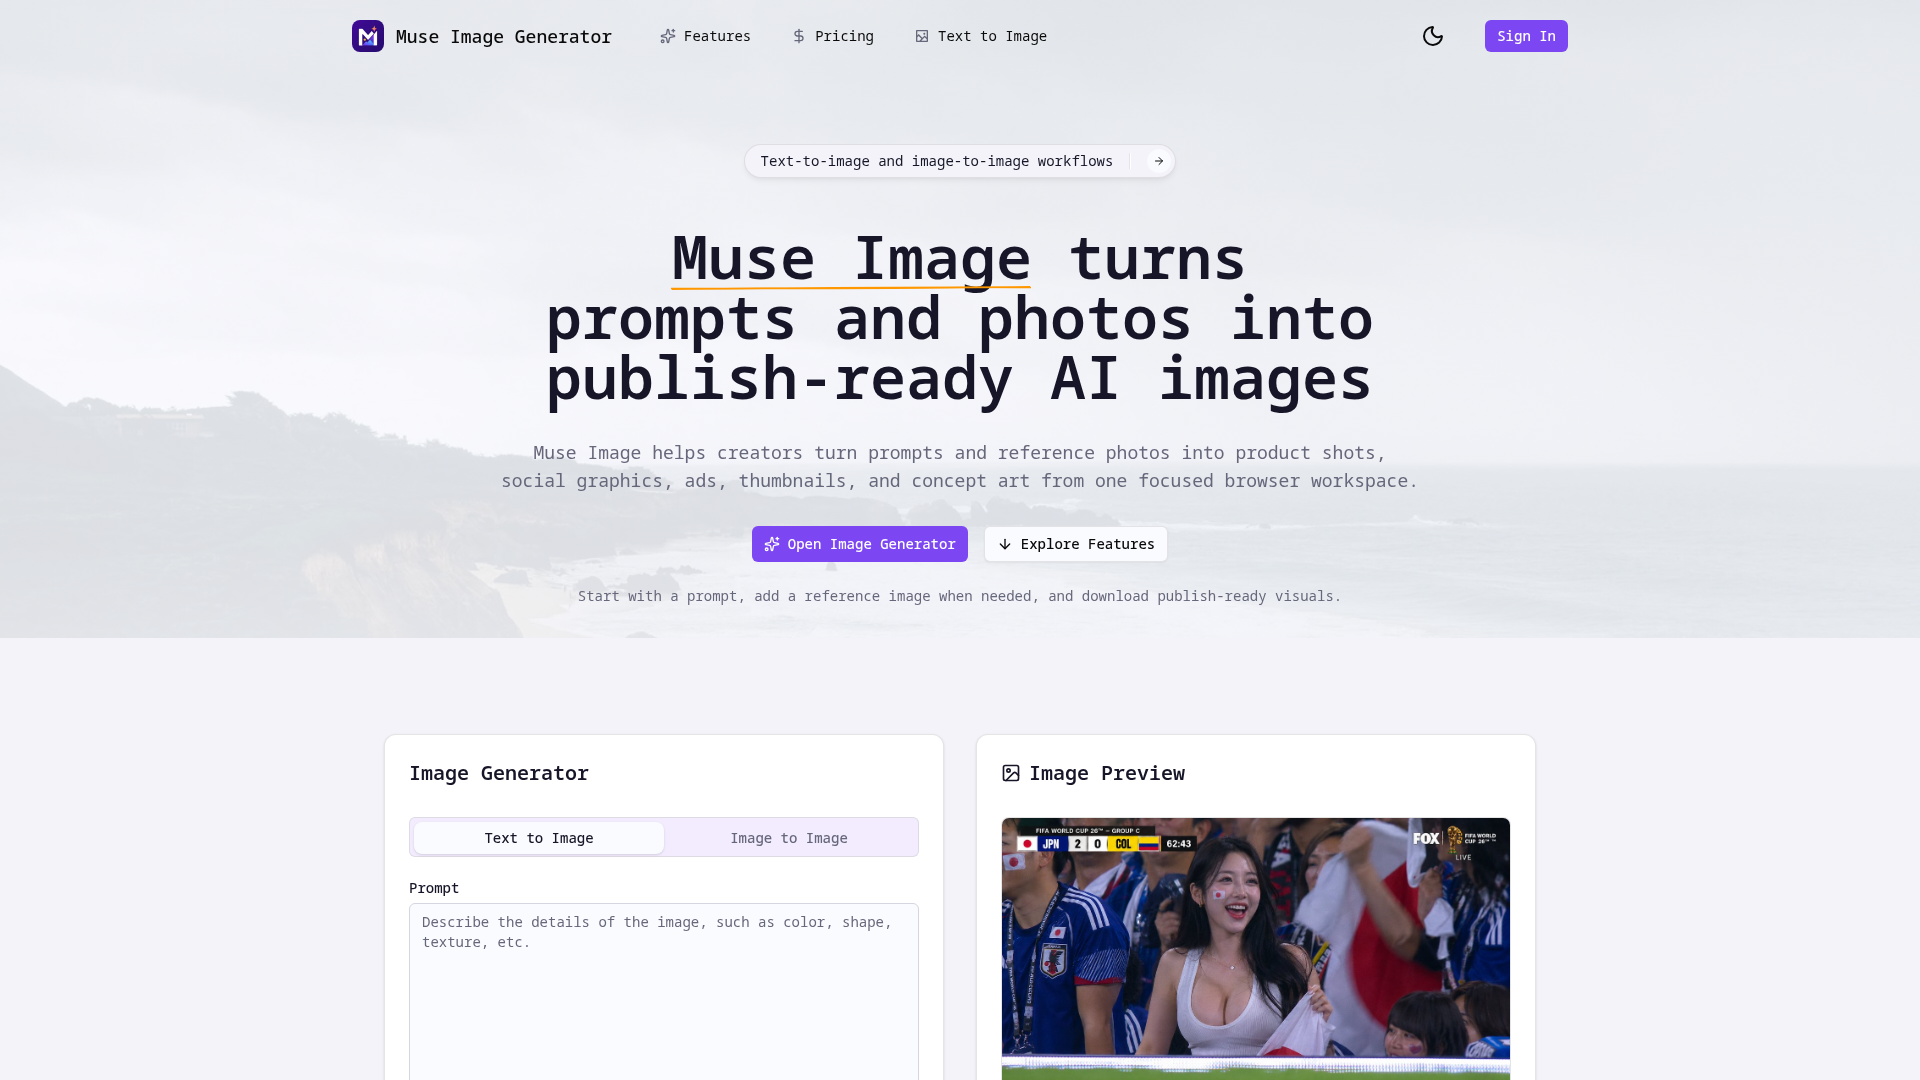
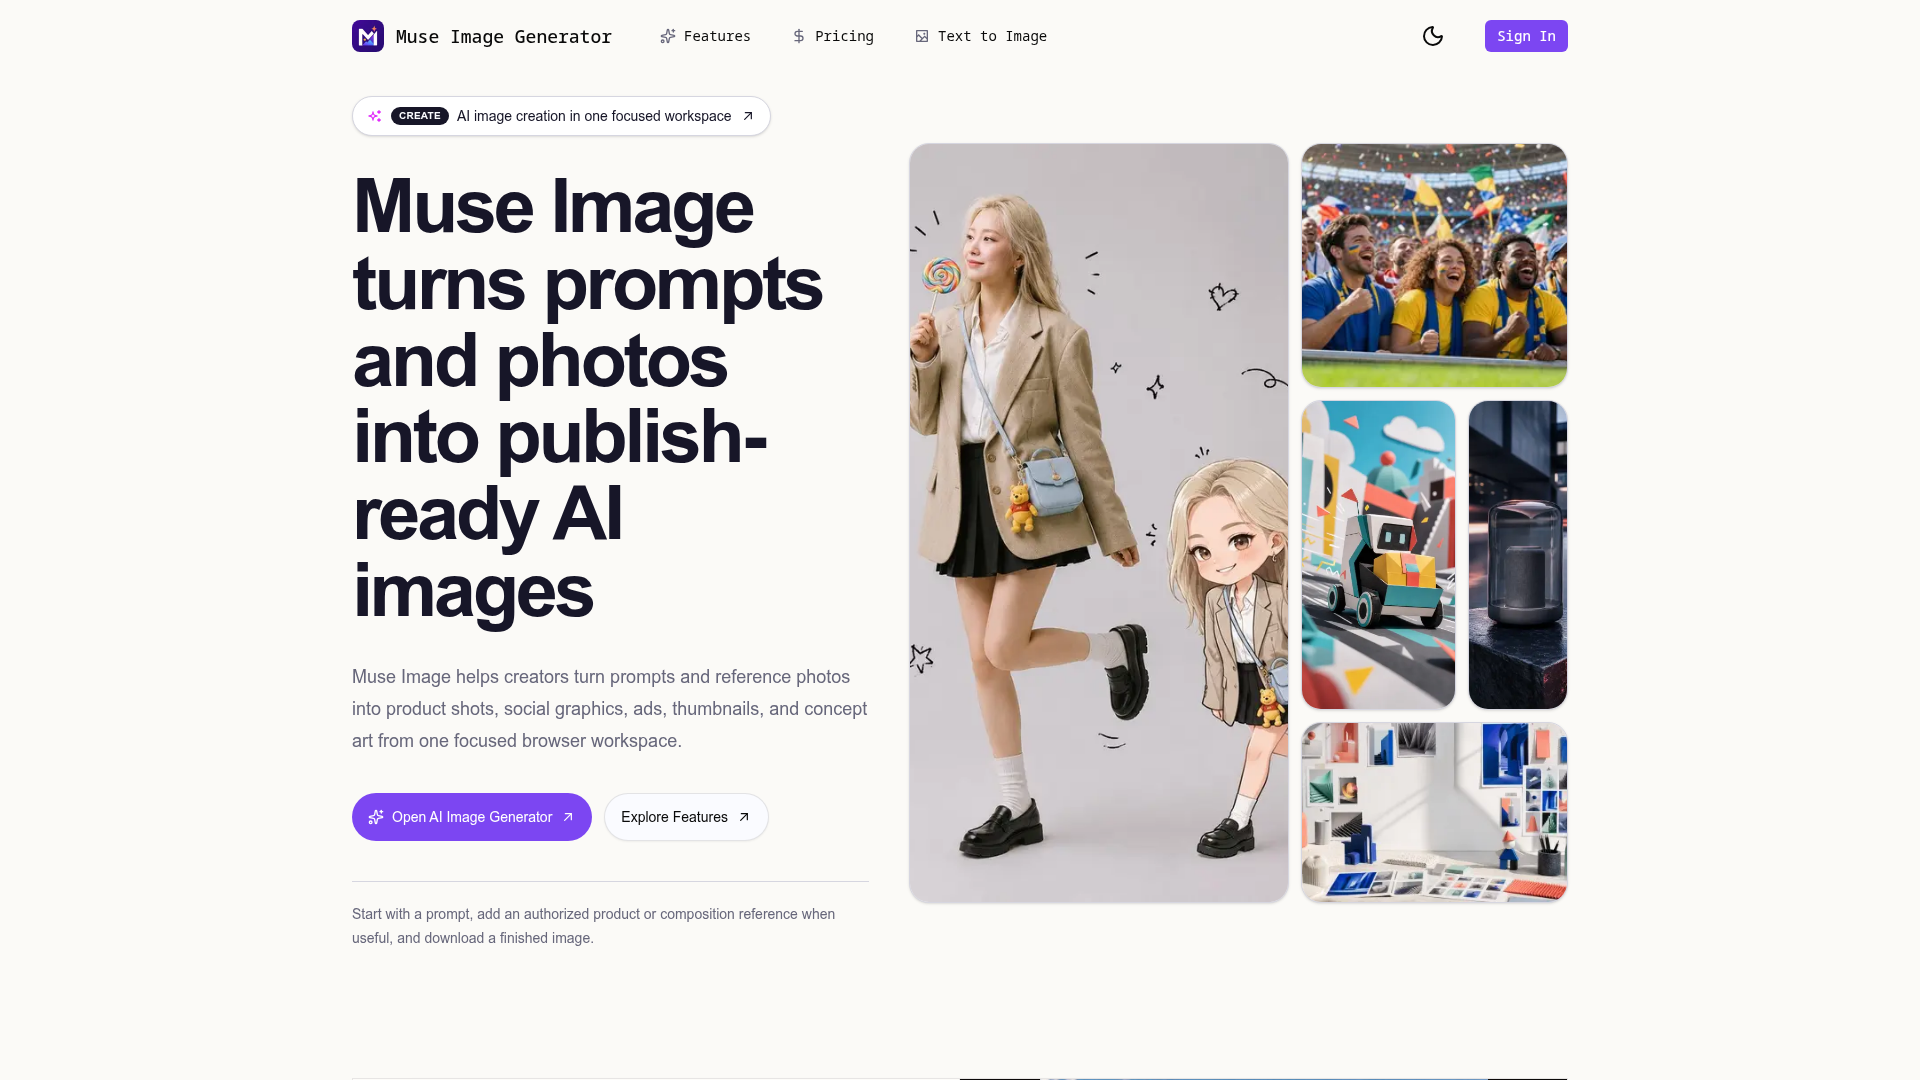
更新 Muse Image 项目资料

diff --git a/glintskill/muse-image-ai-image-generator-for-fast-visual-creation/profile.md b/glintskill/muse-image-ai-image-generator-for-fast-visual-creation/profile.md
@@ -4,15 +4,15 @@
 
 - Source URL: https://www.aimuseimage.com/
 - Resolved URL: https://www.aimuseimage.com/
-- Captured at: 2026-07-09T09:23:44.795938+00:00
+- Captured at: 2026-07-12T01:46:35.897670+00:00
 - Logo URL: https://www.aimuseimage.com/_next/image?url=%2Flogo.png&w=256&q=75
 - Local logo: /Applications/LianXi/blockdancez-skills/glintskill/muse-image-ai-image-generator-for-fast-visual-creation/logo.png
-- Screenshot URL: https://storage.googleapis.com/firecrawl-scrape-media/screenshot-b7206b90-4561-4ef7-ae9c-d5c38af8615a.png?GoogleAccessId=scrape-bucket-accessor%40firecrawl.iam.gserviceaccount.com&Expires=1784193814&Signature=q0V9p3BMZV3mHaSvpkBTHC7WikvEEUZd9chiQwfP4FRbyvYWSf4llAzZxtFU014wQuq3sQ7E0z08MutK%2FSNrbNvKGBtzg03WZXna3wO0EBjMVFpMJGUYDrvva%2BM8RezHPJyilmw%2FZCgnjJvVniACBhstszt31ap8AX3b8jzJ2doOKvSjV0wQsBChb8WjJt%2BHjpozEpGJ2V1aFk4hP7hLNxtFwsSO%2BU8iyRg7yzzjRwAn4Rdad01P11rYaXbFHAeSXaBp%2FMJJYbJ4c%2FGlhFbaB9yM%2FXqSQnlfNOZ6XKpCobq2HxJI4fK2lXK5iHRLSiVYzOGppXWb6W2uYSmVjjV22w%3D%3D
+- Screenshot URL: https://storage.googleapis.com/firecrawl-scrape-media/screenshot-121c6a41-b855-42c8-aa66-6c733ab718d5.png?GoogleAccessId=scrape-bucket-accessor%40firecrawl.iam.gserviceaccount.com&Expires=1784425586&Signature=tNPT2s2U2emCY2IRvIsay%2FE1hlXEpeFh%2B8h5j6j51cDjW3wASrwL7CGTBS%2Fwji2890RS%2FLkWWwwFS901EQMOK3%2FvQ6cRaaI2rq4D6OcDij99uLJd7nQ%2FY%2BCWqNli0QBJUGtJVKcQ9wIcQAOZ%2FYYPg9sJO22XQFzZlWKNlwoHdsuAsBhj%2FQwjd0mbmYhM4HP9ABOGCOcDVutk9l8qXBZqfXW0ksgXnaKaDfJl9gdfhAk4PMLGRtd%2B9rx1GrKY1c%2F8vP7Nu8kTeFuYVAkBd4ARFfdTuxKSiG5maU6XjaDof16agCKvN%2B3lnRky0AOs6qvSdjRBA9GDVwxWx0IwDKRDQQ%3D%3D
 - Local screenshot: /Applications/LianXi/blockdancez-skills/glintskill/muse-image-ai-image-generator-for-fast-visual-creation/screenshot.png
 
 ## Summary
 
-Muse Image is a browser-based tool that enables creators to transform text prompts and reference photos into professionally polished AI-generated images suitable for various applications like product shots, ads, and social media graphics. The platform emphasizes a streamlined workflow involving four main steps: writing a creative brief, adding reference images, generating variations, and downloading the final product. Muse Image aims to provide practical image solutions for users, featuring text-to-image and image-to-image capabilities, and supports controlled and consistent outputs with reference photos. The tool includes subscription plans tailored for different user needs, offering varying levels of credits and features for image generation and refinement.
+Muse Image is an AI image creation tool that enables users to transform prompts and reference photos into various visual assets such as product shots, social graphics, and ads, all within a single browser workspace. The platform emphasizes a streamlined workflow, allowing users to write prompts, add authorized reference images, generate variations, and download final images while keeping their creative context intact. It is designed for creators, marketers, and designers to produce high-quality visuals efficiently. Muse Image offers different subscription plans catering to diverse usage needs, with options for testing concepts or running larger campaigns, ensuring brand safety through controlled reference image use and clear guidelines on acceptable content.
 
 ## Page Metadata
 
@@ -28,21 +28,21 @@ _No product data returned._
 
 ## Markdown Excerpt
 
-[Text-to-image and image-to-image workflows](https://www.aimuseimage.com/#features)
+[CreateAI image creation in one focused workspace](https://www.aimuseimage.com/#image-generator)
 
 # Muse Image turns prompts and photos into publish-ready AI images
 
 Muse Image helps creators turn prompts and reference photos into product shots, social graphics, ads, thumbnails, and concept art from one focused browser workspace.
 
-[Open Image Generator](https://www.aimuseimage.com/ai-image-generator) [Explore Features](https://www.aimuseimage.com/#features)
+[Open AI Image Generator](https://www.aimuseimage.com/ai-image-generator) [Explore Features](https://www.aimuseimage.com/#features)
 
-Start with a prompt, add a reference image when needed, and download publish-ready visuals.
+Start with a prompt, add an authorized product or composition reference when useful, and download a finished image.
 
-![Muse Image AI image generator background](https://picsum.photos/seed/muse-image-generator-en-background/1600/900.webp)
+![Studio portrait paired with a matching illustrated character created in Muse Image](https://www.aimuseimage.com/_next/image?url=%2Fimgs%2Fload%2Fb.jpg&w=3840&q=75)![AI-generated sports crowd scene used as a Muse Image prompt example](https://www.aimuseimage.com/_next/image?url=%2Fimgs%2Fload%2Fc.jpg&w=3840&q=75)![Paper robot illustration generated from a descriptive text prompt](https://www.aimuseimage.com/_next/image?url=%2Fimgs%2Fload%2Fmuse-image-paper-robot.webp&w=3840&q=75)![Cinematic product image created for an advertising concept](https://www.aimuseimage.com/_next/image?url=%2Fimgs%2Fload%2Fmuse-image-cinematic-product.webp&w=3840&q=75)![Collection of original AI images created with Muse Image](https://www.aimuseimage.com/_next/image?url=%2Fimgs%2Fload%2Fmuse-image-hero.webp&w=3840&q=75)
 
 ## A cleaner way to make visual ideas real with Muse Image
 
-Image Generator
+Mode
 
 Text to ImageImage to Image
 
@@ -50,55 +50,29 @@ Prompt
 
 0 / 2000
 
-Sign In to Generate Image
+Settings
 
-Cost 20 creditsRemaining 0 credits
+3:2QualityBasicHigh
 
-[Buy Credits](https://www.aimuseimage.com/pricing)
+Sign in to Generate
 
-Image Preview
+Remaining 0 credits [Need more credits?](https://www.aimuseimage.com/pricing)
 
-![Muse Image preview showing a World Cup broadcast-style crowd reaction image](https://www.aimuseimage.com/imgs/load/c.jpg)
+![Playful cinematic Berlin city chase placeholder preview](https://www.aimuseimage.com/imgs/load/a.jpg)
+
+Model: Muse v1.0
+
+3:2 · Basic
 
 ### Create with Muse Image prompts
 
-Open an example to inspect the full prompt, then send it straight into the Muse Image generator as a starting point for your own AI image variation.
+Open an example to inspect the full prompt, then send it straight into the image generator as a starting point for your own variation.
 
-![Sticker-style runner composited into a Berlin street photo](https://www.aimuseimage.com/imgs/load/a.jpg)Image![Studio portrait with a matching chibi illustration](https://www.aimuseimage.com/imgs/load/b.jpg)Image![World Cup broadcast-style crowd reaction screenshot](https://www.aimuseimage.com/imgs/load/c.jpg)Image![Oil-painting style cookie splashing into milk](https://www.aimuseimage.com/imgs/load/d.jpg)Image
-
-## How Muse Image works in four steps
-
-A quick Muse Image workflow for moving from a rough idea to a usable AI image without making the first screen carry every product detail.
-
-1
-
-### Write the creative intent
-
-Describe the subject, setting, style, format, and final use case before generating.
-
-2
-
-### Add reference material
-
-Upload a photo when Muse Image should follow a product, person, composition, or style.
-
-3
-
-### Generate, compare, and refine
-
-Create variations, choose the strongest direction, then revise the prompt or reference.
-
-4
-
-### Download and reuse
-
-Save the finished image for a page, ad, social post, mockup, or review deck.
-
-Product Guide
-
-## Understand Muse Image before you start creating
-
-Muse Image is more than a prompt box.
+![Oil-painting style cookie splashing into milk](https://www.aimuseimage.com/imgs/load/muse-image-cookie-art.webp)
+Oil-painting style cookie splashing into milk
+![Bold coral product poster with graphic architectural forms](https://www.aimuseimage.com/imgs/load/muse-image-product-poster.webp)
+Bold coral product poster with graphic architectural forms
+![Muse Image paper robot racing through an original miniature city](https://www.aimuseimage.com/imgs/lo
 
 ...
 
